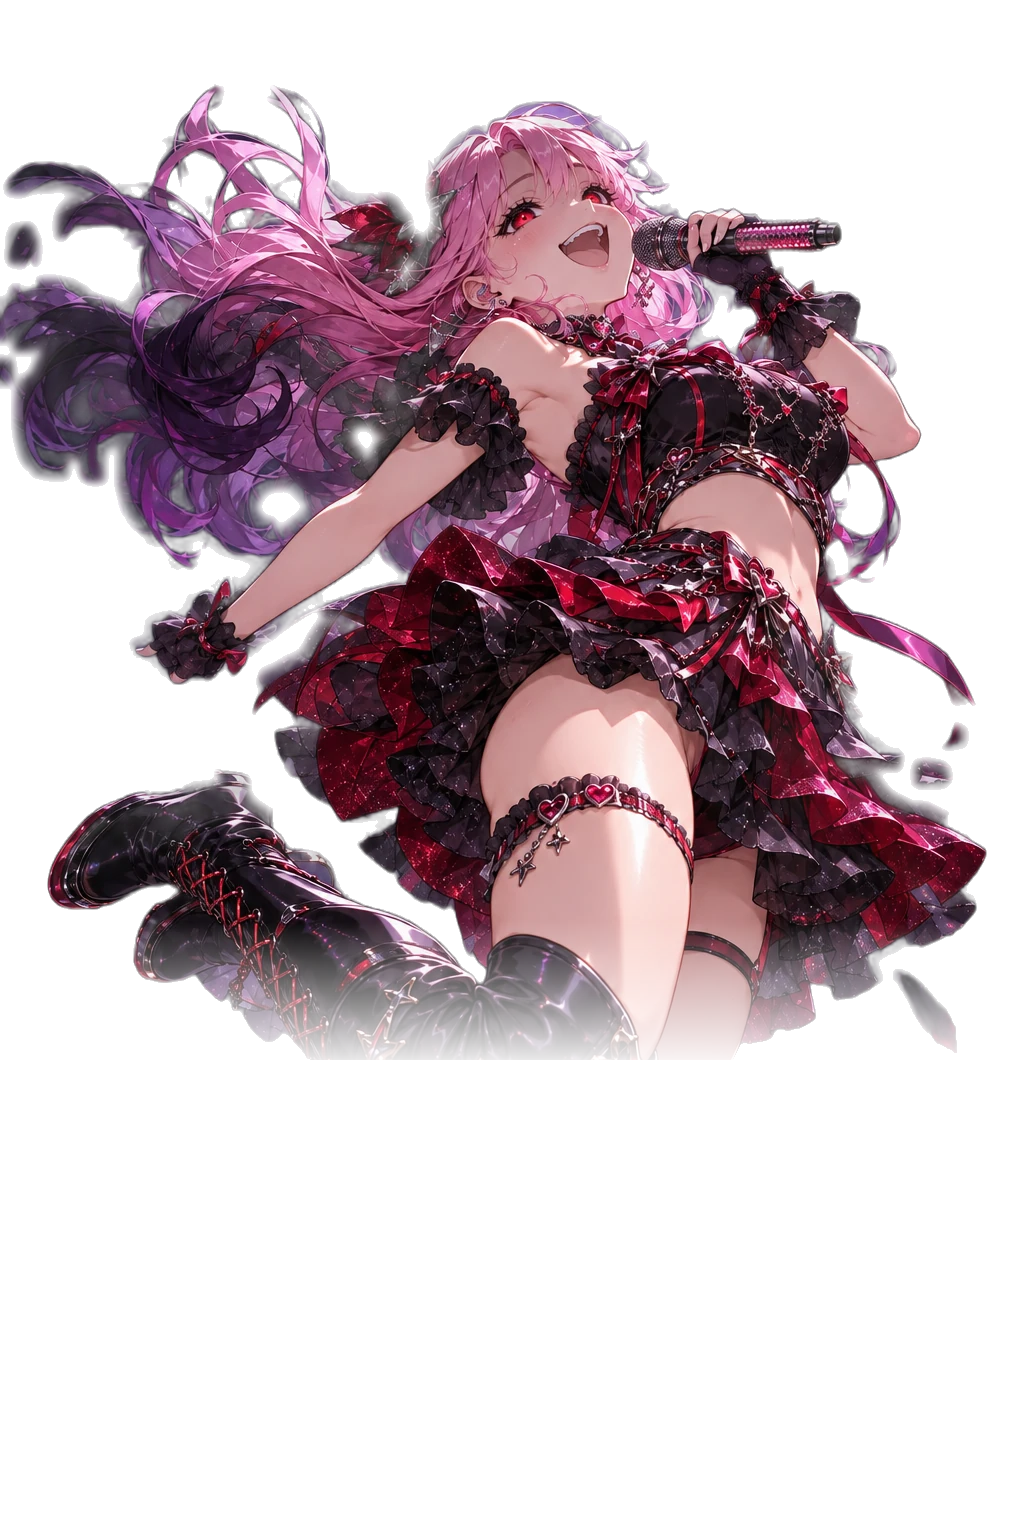
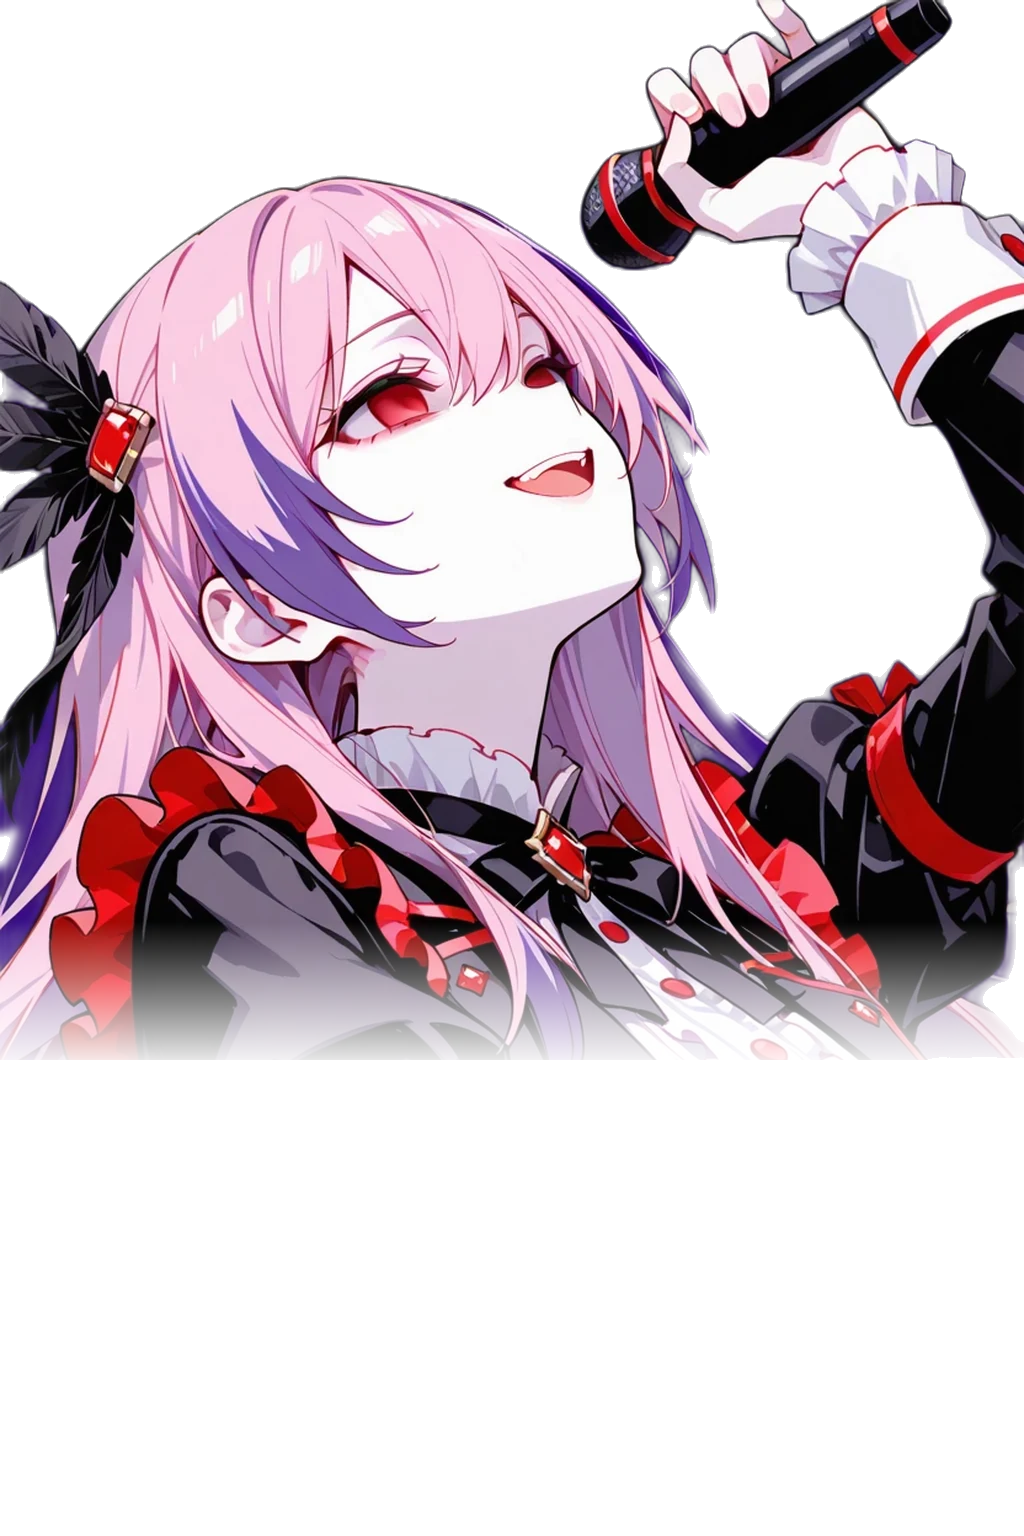
病み期のミレイの絵を PixAI の絵に差し替える

diff --git a/docs/card-art-orders.md b/docs/card-art-orders.md
@@ -1675,7 +1675,9 @@ best quality, high quality, highres, clean lineart, sharp focus, anime screencap
 shiny skin, glossy, oily skin, wet, specular highlights, rim lighting, backlighting, glowing, bloom, lens flare, sparkles, light particles, bokeh, depth of field, thick painting, realistic, photorealistic, photo, 3d, cgi, heavy gradient, overdetailed, intricate details, detailed hair strands, generic face, expressionless, midriff, navel, revealing clothes, miniskirt, upskirt, panties, underwear, cleavage, crowd, audience, multiple girls, text, logo, signature, watermark, border, frame, bad hands, extra fingers, missing fingers, extra arms, extra legs, blurry lineart, lowres, worst quality
 ```
 
-**11月2日に通常の絵を差し替えた**：上のプロンプトでオーナーが PixAI で描いた絵（片手を上げ、マイクを口元に、上を見て歌う）。元は `assets/original/c13.webp`（832×1472）。下を切って 2:3 にし、`c13-art.jpg` にした。切り抜き `c13-subject.webp` は `tools/cutout.py --fade-from 0.6` のあと、腕と頭の間に残った黒い地と、本体から離れた紙吹雪を消した。前の ChatGPT の絵は `assets/original/c13-chatgpt.webp`。闇堕ちの絵はまだ前のまま。
+**11月2日に通常の絵を差し替えた**：上のプロンプトでオーナーが PixAI で描いた絵（片手を上げ、マイクを口元に、上を見て歌う）。元は `assets/original/c13.webp`（832×1472）。下を切って 2:3 にし、`c13-art.jpg` にした。切り抜き `c13-subject.webp` は `tools/cutout.py --fade-from 0.6` のあと、腕と頭の間に残った黒い地と、本体から離れた紙吹雪を消した。前の ChatGPT の絵は `assets/original/c13-chatgpt.webp`。
+
+**11月3日に闇堕ちの絵も差し替えた**：オーナーが PixAI で描いた絵（黒と深紅の衣装、黒い羽の髪飾り、マイクを掲げて上を向いて笑う）。下のプロンプトの「こちらを見下ろす」とは違う絵だが、オーナーが闇堕ちとして送ってくれたものを使った。通常と同じく下を切って 2:3 にし、`c13-dark-art.jpg`・`c13-dark-subject.webp`（`--fade-from 0.6`。紫の地なので、そのままきれいに抜けた）。元は `assets/original/c13-dark.webp`、前の ChatGPT の絵は `assets/original/c13-dark-chatgpt.webp`。
 
 闇堕ち（病み期のミレイ）：同じポーズでは上を向いて歌っていて、こちらを向かないのが良くない（オーナー：「こっちを向いた上で、ちょっと見下す感じに」）。歌うのをやめ、あごを上げてこちらを見下ろす形にした。顔をそろえるため、通常の絵と同じシードで。ポジティブ：
 ```text

diff --git a/docs/history.md b/docs/history.md
@@ -2142,3 +2142,4 @@
 - 832×1472 で届いたので、下を切って 2:3 にした。切り抜きは `tools/cutout.py` のあと、腕と頭の間に残った黒い地と紙吹雪を消した。カード面では上げた手が枠の上へはみ出る
 - `rembg` は Intel の Mac だと最新の `numba` が組み立てられないので、`numba==0.60.0`・`llvmlite==0.43.0`・`numpy<2.1` に固定して入れた
 - 病み期のミレイは、同じポーズだとこちらを向かない（オーナー：「こっちを向いた上で、ちょっと見下す感じに」）。歌うのをやめて、あごを上げて見下ろす形のプロンプトにした（[card-art-orders.md](card-art-orders.md)）
+- 11月3日：病み期のミレイも、オーナーが PixAI で描いた絵（黒と深紅の衣装で、マイクを掲げて上を向いて笑う）に差し替えた。紫の地なので切り抜きはそのまま抜けた。前の絵は `assets/original/c13-dark-chatgpt.webp`。`sw.js` の版は通常の差し替えで上げた v12 のまま（まだ本番に出していないため）
